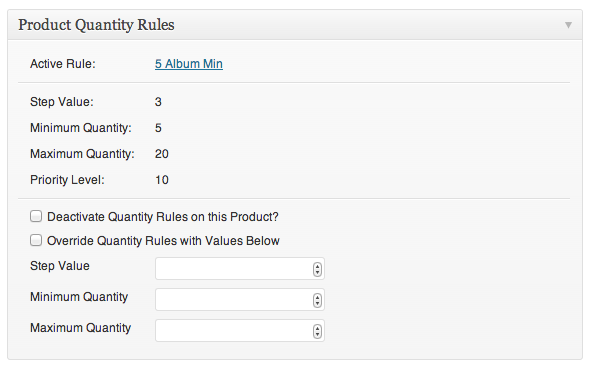
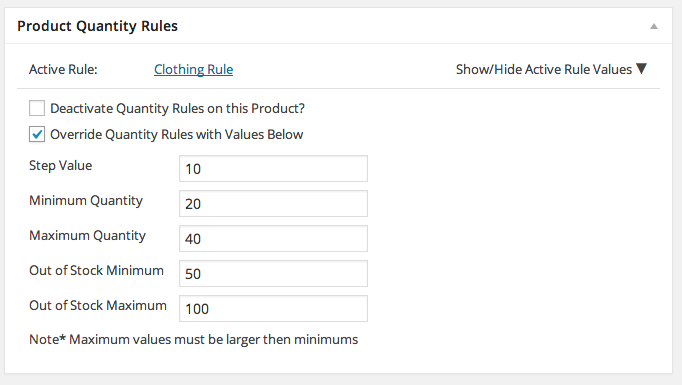
Updated read me and screenshots.

diff --git a/README.md b/README.md
@@ -7,7 +7,7 @@ Donate Link: http://wpbackoffice.com/plugins/woocommerce-incremental-product-qua
 
 Requires at least: 2.3
 
-Tested up to: 3.8
+Tested up to: 3.83
 
 Stable tag: 2.1.3
 
@@ -22,6 +22,8 @@ Easily require your customers to buy a minimum / maximum / incremental amount of
 With WooCommerce Advanced Product Quantities you can easily create rules that restrict the amount of products a user can buy at once. Set Minimum, Maximum and Step values for any product type and must be valid before a customer can proceed to checkout.
 
 ## New Features as of version 2.1.0:
+* Added Custom Quantity Message Option
+* Added Out of Stock Min/Max
 * Added Role Support, create rules based on user roles.
 * Improved preformance / cacheing
 * Improved admin interface
@@ -68,6 +70,12 @@ Manual Installation
 6. Set Rules for categories by clicking the new ‘Quantity Rules’ sidebar option or assign per-product rules by using the new metabox on your product page.
 
 ## Upgrade Notice
+
+####2.1.3
+* Added Quantity Message Options
+* Added Out of Stock min/max values 
+* Fixed 0 quantity appearing as 1 bug
+* Minor class tweaks
 
 ####2.1.2 
 Default user role bug fix.
